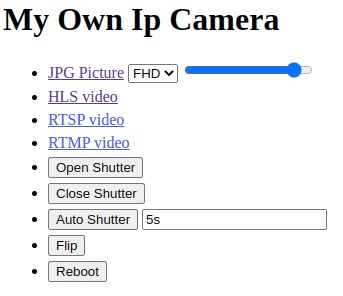
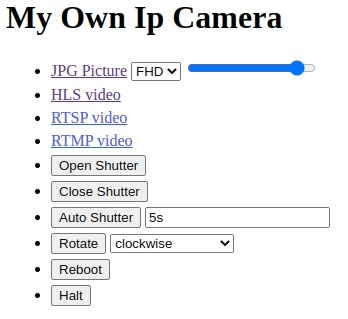
change flip to rotate + add halt

diff --git a/index.js b/index.js
@@ -61,8 +61,9 @@ const { PersistantObjectFileHandler, default:createPersistantObject } = require(
 
     const logger = createLogger(config.logs.level)
 
+    // TODO upgrade system ?
     const state = await createPersistantObject(
-        { flip: false, shutterAutoWaitBeforeClose: '0s', shutterMode: 'auto' },
+        { rotate: 'none', shutterAutoWaitBeforeClose: '0s', shutterMode: 'auto' },
         new PersistantObjectFileHandler('/var/lib/cam/state.json')
     )
 
@@ -164,15 +165,15 @@ const { PersistantObjectFileHandler, default:createPersistantObject } = require(
         }
     }
 
-    async function doFlip() {
-        state.flip = !state.flip
+    async function rotate(value) {
+        state.rotate = value
 
         await httpRequest({
             method: 'POST',
             url: 'http://127.0.0.1:9997/v1/config/paths/edit/fhd',
             bodyData: {
-                rpiCameraVFlip: state.flip,
-                rpiCameraHFlip: state.flip
+                rpiCameraVFlip: state.rotate === 'reverse',
+                rpiCameraHFlip: state.rotate === 'reverse'
             },
             bodyType: 'json',
             logger,
@@ -225,7 +226,7 @@ const { PersistantObjectFileHandler, default:createPersistantObject } = require(
                 {
                     username: config.auth.viewer.username,
                     password: config.auth.viewer.password,
-                    roles: ['view', 'shutter-read']
+                    roles: ['view', 'shutter-read', 'rotate-read']
                 },
                 {
                     username: config.auth.admin.username,
@@ -235,7 +236,8 @@ const { PersistantObjectFileHandler, default:createPersistantObject } = require(
             ],
             extendedRoles: {
                 shutter: ['shutter-read', 'shutter-write'],
-                all: ['view', 'shutter', 'reboot', 'flip']
+                rotate: ['rotate-read', 'rotate-write'],
+                all: ['view', 'shutter', 'reboot', 'rotate']
             }
         },
         webUi: {
@@ -248,13 +250,26 @@ const { PersistantObjectFileHandler, default:createPersistantObject } = require(
             routes: [
                 {
                     method: 'POST',
-                    path: '/flip',
+                    path: '/rotate',
                     auth: {
-                        roles: ['flip']
+                        roles: ['rotate-write']
+                    },
+                    inputBodySchema: {
+                        enum: ['none', 'counterclockwise', 'clockwise', 'reverse']
                     },
                     async handler(req, res) {
-                        await doFlip()
+                        await rotate(req.body)
                         res.status(201).end()
+                    }
+                },
+                {
+                    method: 'GET',
+                    path: '/rotate',
+                    auth: {
+                        roles: ['rotate-read']
+                    },
+                    async handler(req, res) {
+                        res.send(JSON.stringify(state.rotate))
                     }
                 },
                 {
@@ -284,15 +299,23 @@ const { PersistantObjectFileHandler, default:createPersistantObject } = require(
                 },
                 {
                     method: 'POST',
-                    path: '/reboot',
+                    path: '/system',
                     auth: {
                         roles: ['reboot']
+                    },
+                    inputBodySchema: {
+                        enum: ['halt', 'reboot']
                     },
                     async handler(req, res) {
                         res.status(201).end()
 
+                        const mapping = {
+                            halt: 'o',
+                            reboot: 'b'
+                        }
+
                         await runProcess({
-                            command: 'echo b > /sysrq',
+                            command: 'echo '+mapping[req.body]+' > /sysrq',
                             logger
                         }, true)
                     }
@@ -353,14 +376,18 @@ const { PersistantObjectFileHandler, default:createPersistantObject } = require(
                             await runProcess({
                                 command: [
                                     'ffmpeg',
-                                    '-i', 'http://localhost:8888/fhd/stream.m3u8',
+                                    '-i', 'http://' + encodeURIComponent(config.auth.viewer.username)+':'+encodeURIComponent(config.auth.viewer.password)+'@localhost:8888/fhd/stream.m3u8',
                                     '-ss', '00:00:01.500',
                                     '-f', 'image2',
                                     '-frames:v', '1',
-                                    '-vf', 'scale=' + size.join(':'),
-                                    '-q:v', ffmpegQuality,
-                                    '-'
-                                ],
+                                    '-vf', 'scale=' + size.join(':')
+                                ].concat(
+                                    state.rotate.includes('clockwise')
+                                        ? ['-vf', 'transpose=' + (state.rotate === 'clockwise' ? 1 : 2)]
+                                        : []
+                                )
+                                .concat(['-q:v', ffmpegQuality, '-']
+                                ),
                                 logger,
                                 outputStream: res
                             }, true)
@@ -374,7 +401,13 @@ const { PersistantObjectFileHandler, default:createPersistantObject } = require(
                                         '--width', size[0],
                                         '--height', size[1],
                                         '-n', '-o', '-', '-q', quality, '-t', 5
-                                    ].concat(state.flip ? ['--hflip', '1', '--vflip', '1']: []),
+                                    ].concat(state.rotate === 180 ? ['--hflip', '1', '--vflip', '1']: [])
+                                    .concat(
+                                        state.rotate.includes('clockwise')
+                                            ? ['|', 'ffmpeg', '-i', '-','-f', 'image2', '-vf', 'transpose=' + (state.rotate === 'clockwise' ? 1 : 2), '-']
+                                            : []
+                                        )
+                                    .join(' '),
                                     logger,
                                     outputStream: res
                                 }, true)

diff --git a/ui/index.html b/ui/index.html
@@ -23,8 +23,9 @@
         <li><button onclick="shutter('open')">Open Shutter</button></li>
         <li><button onclick="shutter('closed')">Close Shutter</button></li>
         <li id="autoshutter"><button onclick="shutter('auto')">Auto Shutter</button> <input type="text" value="(unknown)" /></li>
-        <li><button onclick="flip()">Flip</button></li>
-        <li><button onclick="reboot()">Reboot</button></li>
+        <li id="rotate"><button onclick="rotate()">Rotate</button> <select><option>none</option><option>counterclockwise</option><option>clockwise</option><option>reverse</option></select></li>
+        <li><button onclick="system('reboot')">Reboot</button></li>
+        <li><button onclick="system('halt')">Halt</button></li>
     </ul>
 
     <script type="text/javascript">
@@ -41,8 +42,12 @@
             document.querySelector('#jpg a').href=link
         }
 
-        async function flip() {
-            await _fetch('flip', { method: 'POST' })
+        async function rotate() {
+            await _fetch('rotate', {
+                method: 'POST',
+                body: JSON.stringify(document.querySelector('#rotate select').value),
+                headers: { 'Content-Type': 'application/json' }
+            })
         }
 
         (async () => {
@@ -55,9 +60,21 @@
             document.querySelector('#autoshutter input').value = v
         })();
 
-        async function reboot() {
-            await _fetch('reboot', {
-                method: 'POST'
+        (async () => {
+            const e = await _fetch('rotate', {
+                method: 'GET'
+            })
+
+            const v = await e.json()
+
+            document.querySelector('#rotate select').value = v
+        })();
+
+        async function system(cmd) {
+            await _fetch('system', {
+                method: 'POST',
+                body: JSON.stringify(cmd),
+                headers: { 'Content-Type': 'application/json' }
             })
         }
 

diff --git a/README.md b/README.md
@@ -9,6 +9,7 @@ A free docker stack to transform a device with camera (+ servomotor) with IP Cam
 - Go to http://camHostOrIP/ to have URLS and actions
 - Video (one size) RTSP + HLS + RTMP "on demand"
 - Image (snapshot) directly from camera if possible else from video stream (fhd/hd with choose of quality)
+- Rotation (each 90°)
 - Shutter (hide the camera) open/close/auto, when auto open the shutter on snapshot and close after (with delay to avoid too openings in case of recording)
 - Some possible configurations ; see https://github.com/gallofeliz/js-libs/tree/master/src/config (warning: master to replace to good version)
   - shutter_enabled=true|false (default true)
@@ -22,8 +23,9 @@ A free docker stack to transform a device with camera (+ servomotor) with IP Cam
 ## Limitations
 
 - Currently Raspberry PI with its camera is supported. We can easily isolate the services and have differents images for differents systems.
-- Only FHD video available
-- No ONVIF
+- Only FHD video available yet
+- No ONVIF yet
+- No -90/90° video rotation yet
 
 ## Environment
 
@@ -64,7 +66,7 @@ dtparam=pwr_led_activelow=off
 - Add Onvif endpoint
   - https://github.com/kate-goldenring/onvif-camera-mocking (https://github.com/KoynovStas/onvif_srvd/blob/master/src/onvif_srvd.cpp)
   - https://www.happytimesoft.com/products/onvif-server/index.html
-- Detect with accelemeter (or similar) camera position and ajust auto flip
+- Detect with accelemeter (or similar) camera position and ajust auto rotate
 - Add audio
 - Put rtsp inside the docker image ? Or better separated (logs are better ;)) ?
 - Add led to say that cam is used ? Maybe we can use RPI already installed led 
